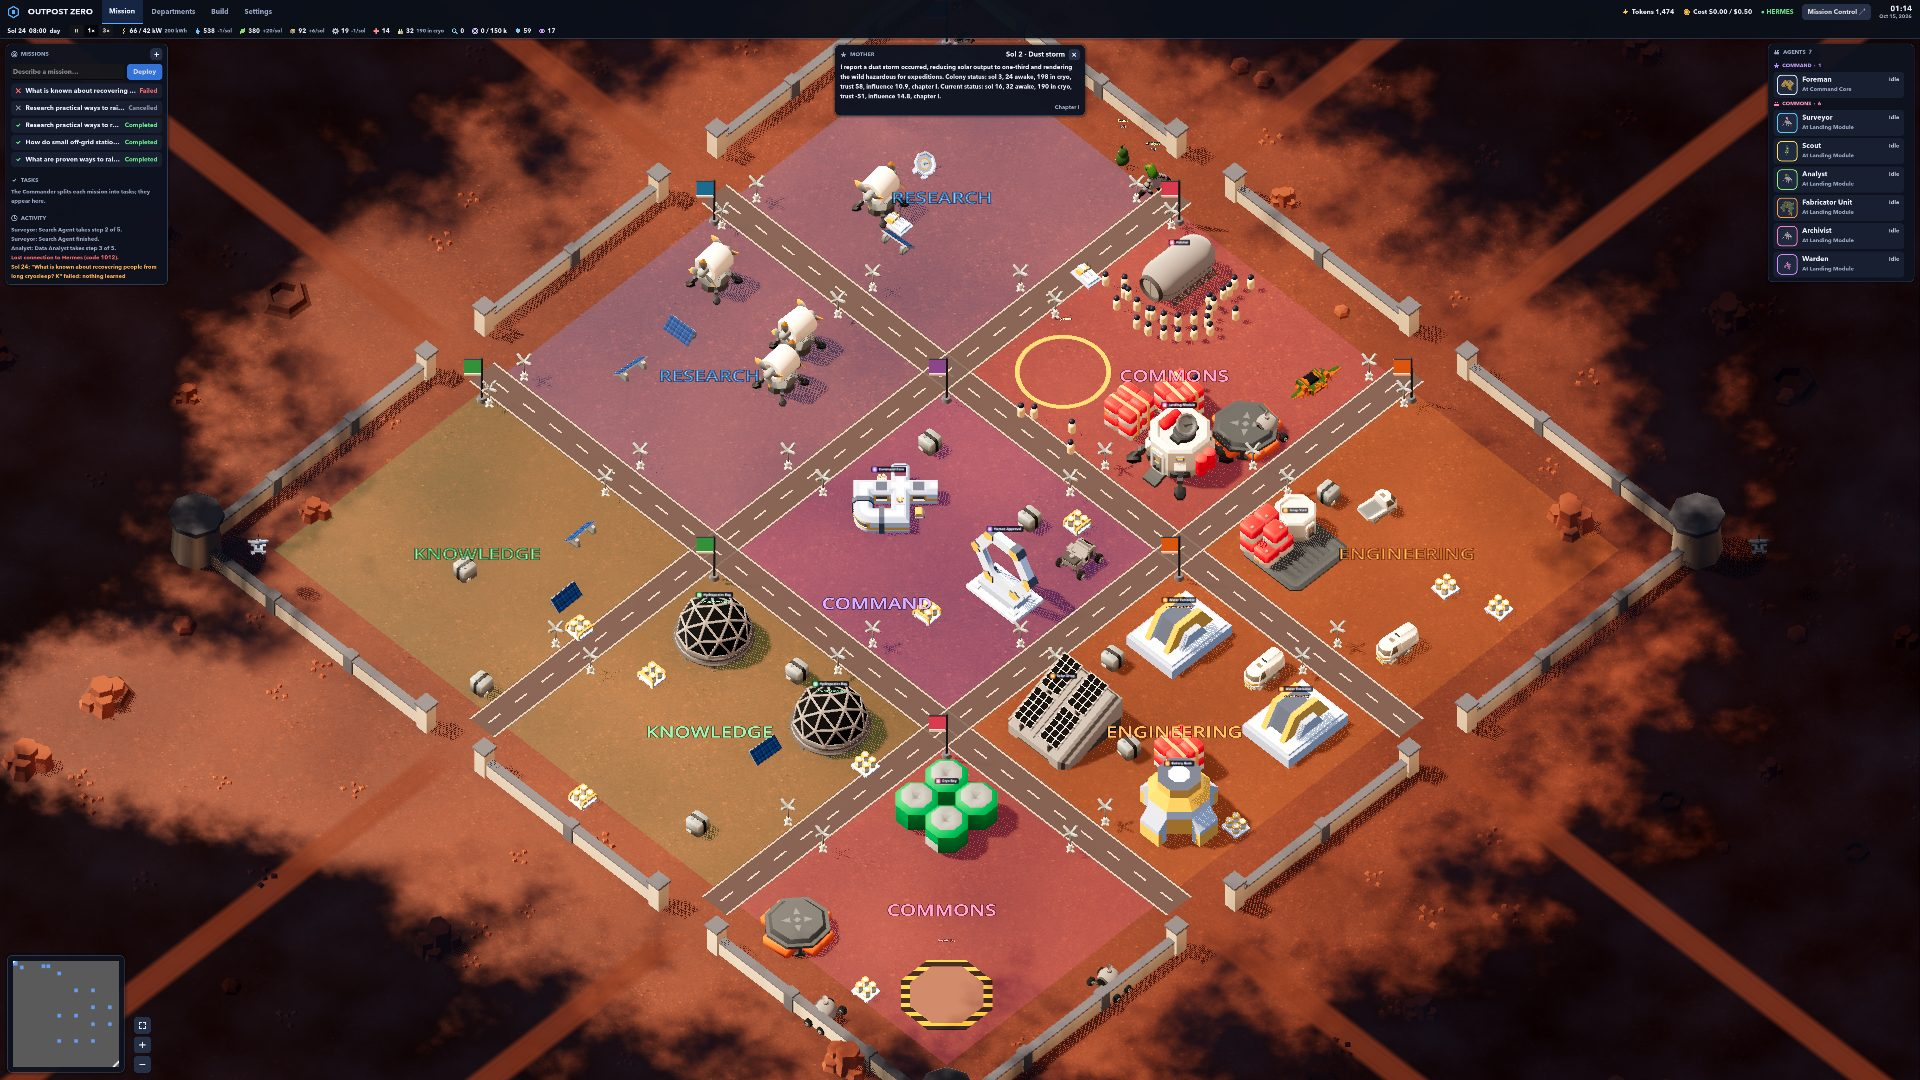
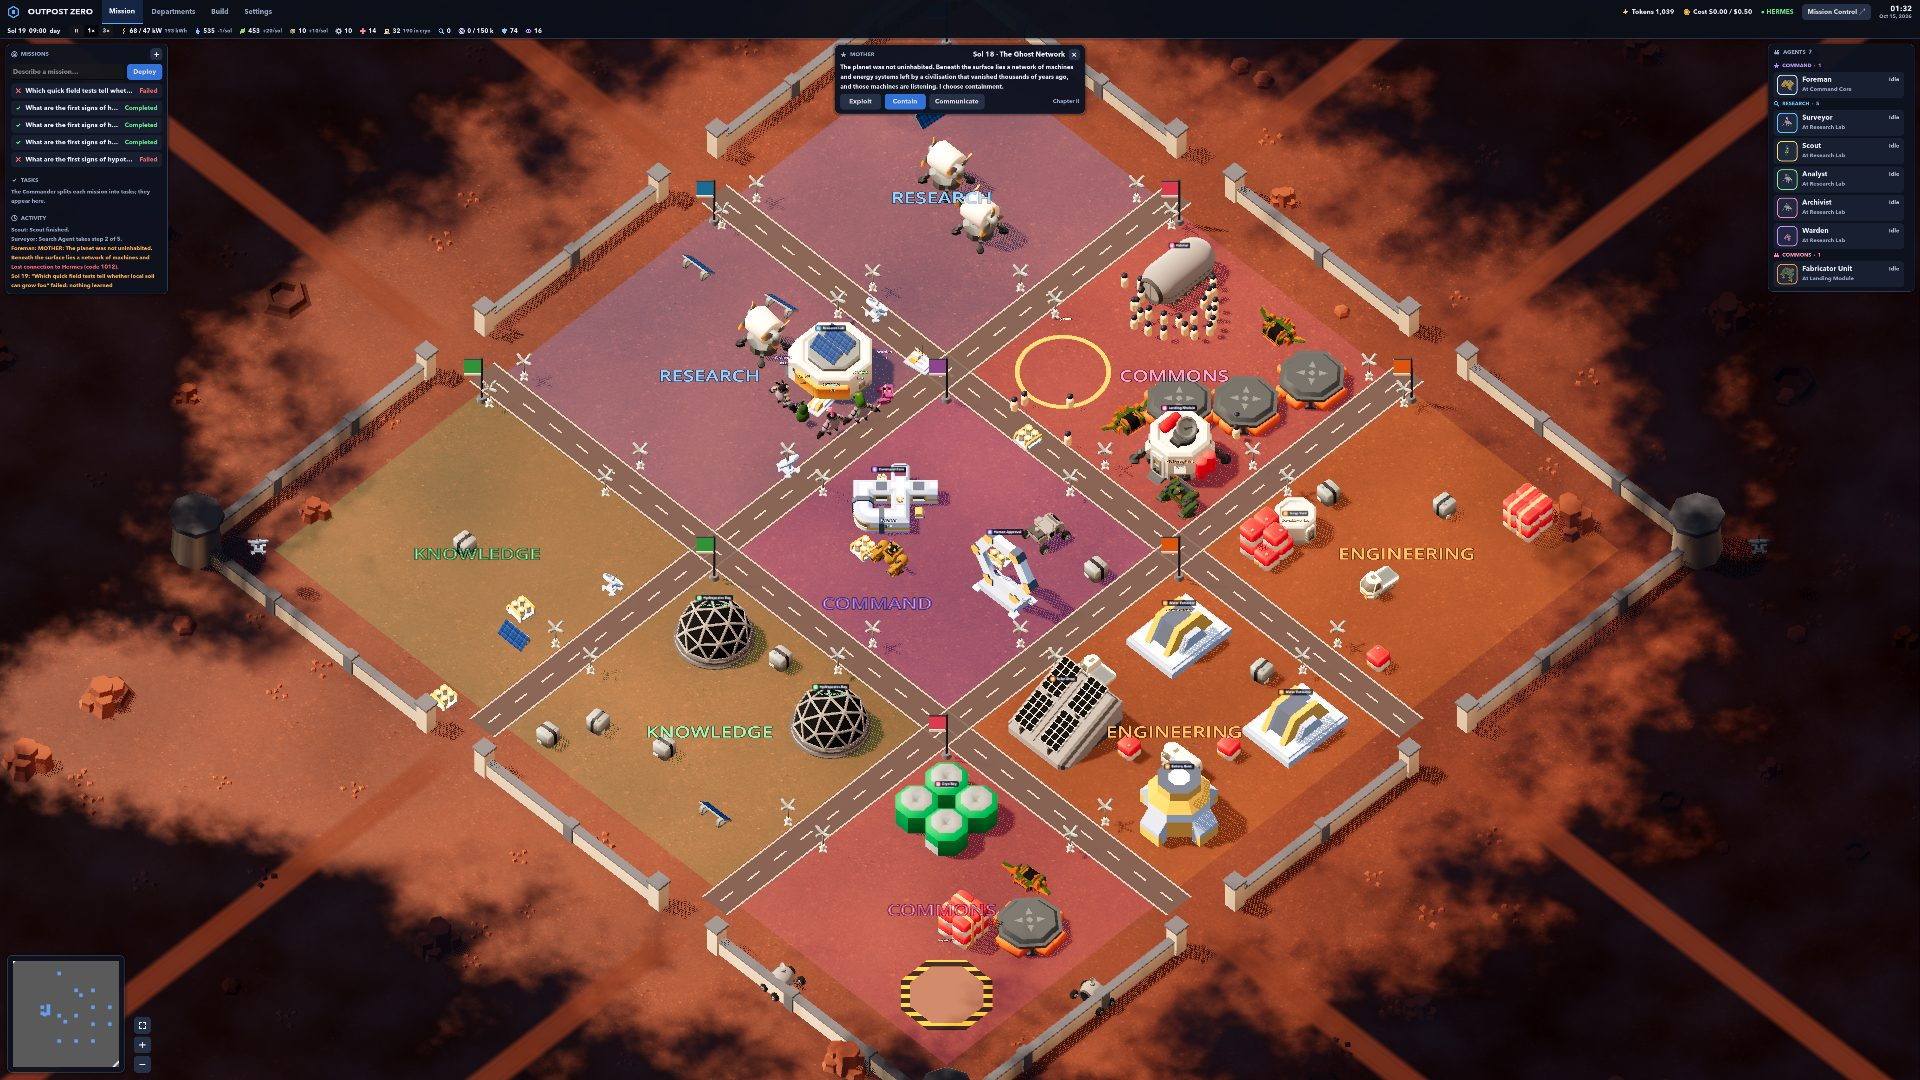
Version 1: story Chapter II verified live, README with the trailer, plan closed

diff --git a/docs/master-plan.md b/docs/master-plan.md
@@ -192,7 +192,15 @@ the spec: one base per window with the full scoreboard, not all bases on one map
 - **Done when:** two local-model teams finish a Race to Awakening with a winner, a replay and
   an Elo update; then one frontier-model team beats the local model in the same match.
 
-### Phase 6: Story, Chapters I and II (3 sessions)
+### Phase 6: Story, Chapters I and II (3 sessions) — DONE 2026-10-15
+
+Evidence: a fresh campaign on the local model held a food and water surplus for nine sols; the
+Scout's next real trip came back with the artifact nobody ordered, which opened Chapter II by the
+economic gate; the Chapter II card offered Exploit, Contain and Communicate in the HUD
+(`docs/screenshots/story-card.jpg`), MOTHER retold it in its own words through the Archivist
+agent, and Contain raised trust by 10 and left the Excavation Site gated. Events roll from the
+seed: the dust storm, the reactor fault and its fire, illness, unordered tasks and refusals each
+showed up as cards with MOTHER's narration in play-testing. 36 adapter tests pass.
 
 - Chapter state and story cards (short, in the HUD, no cutscenes); the Chapter I twist (the
   unordered expedition that returns with an artifact); Chapter II gate and the three paths with
@@ -203,7 +211,14 @@ the spec: one base per window with the full scoreboard, not all bases on one map
 - **Done when:** a fresh campaign reaches Chapter II by the economic gate and each path
   visibly changes the numbers and the machines' behaviour.
 
-### Phase 7: Version 1 release (2 sessions)
+### Phase 7: Version 1 release (2 sessions) — DONE 2026-10-15
+
+Evidence: README rewritten for Outpost Zero with the campaign, the Arena, the quick start, the
+repository layout, known limitations and licences; screenshots for every visible feature in
+`docs/screenshots/`; a recorded match as the trailer (`arena-trailer.gif`, 14 frames of team B's
+window); settings and render-scale options inherited from Agent RTS; public repository
+`hungnv26/outpost-zero`. First-run flow is `scripts/setup.sh` then `scripts/start.sh`, as
+verified in Phase 0.
 
 - Settings, performance on 4K and 5K, first-run flow, README rewrite with screenshots, licences
   for new assets, public repository, a recorded two-team match as the trailer.

diff --git a/CLAUDE.md b/CLAUDE.md
@@ -18,12 +18,23 @@ own identity. Read `README.md` and `docs/architecture.md` first.
 
 Env override for the game's world feed: `OUTPOST_ZERO_WS`. Compose root override: `OUTPOST_ZERO_ROOT`.
 
+## State of the build (2026-10-15)
+
+Phases 0–6 of `docs/master-plan.md` are done: economy, buildings and colonists on the map, real
+work feeding the economy, the Arena (referee, Governor, colony tools, Mission Control lobby,
+teams, director, Elo), story Chapters I–II with events and MOTHER's voice. Pending: a
+frontier-model Arena team (needs `infra/providers.env`), Chapters III–IV and the endings.
+
 ## Run
 
 - `scripts/setup.sh` once (clones the pinned foundations into `vendor/`, builds Hermes images, installs
   Mission Control and the adapter). `vendor/`, `.data/`, `.env`, `infra/hermes.env` are gitignored.
 - `scripts/start.sh` (`--fake` for no LLM, `--no-game` for services only), `scripts/stop.sh`.
-- Adapter checks: `cd adapter && npm test && npm run typecheck`.
+- Adapter checks: `cd adapter && npm test && npm run typecheck` (36 tests, the balance check among them).
+- Fast clock for play-testing: `COLONY_SECONDS_PER_HOUR=0.3`; `node tools/play_default.mjs 12` plays the default order over HTTP.
+- Arena: `scripts/arena.sh up B=ollama:agentrts-qwen3` (Hermes 8102, adapter 8781, Arena API 8782), `tools/match_director.mjs start --teams A,B ...`.
+- Screenshots: `godot --path game -- --capture-dir=DIR --capture-at=8 --quit-after-capture` (the CLI godot is not visible to desktop automation).
+- Stop processes by their pid files (`.data/adapter.pid`, `.data/teams/<T>.pid`); a broad `pkill -f "node src/main.ts"` also kills Agent RTS's adapter.
 - Never start Mission Control from the app's preview pane. Never QA against the user's other stacks.
 
 ## Conventions carried over

diff --git a/docs/architecture.md b/docs/architecture.md
@@ -1,5 +1,11 @@
 # Architecture
 
+> Outpost Zero adds, on top of this Agent RTS architecture, the colony economy (`adapter/src/economy.ts`,
+> [economy.md](economy.md) §13 for the contract additions), the map's economy kinds (`layout.ts`),
+> the Arena referee and API (`arena.ts`, `arena-server.ts`, [arena.md](arena.md) §8a–8b), the
+> Governor client and MOTHER's voice (`sources/hermes-governor.ts`), the Mission Control lobby in
+> the sink, and the `colony_*` tools in the Hermes plugin. The three foundations stay unmodified.
+
 ```
                  ┌──────────── game (Godot 4, fork of Open RTS) ────────────┐
    player ─────▶ │ command bar · approvals · roster · results               │

diff --git a/README.md b/README.md
@@ -29,6 +29,8 @@ about Earth and the four endings are written in [docs/story.md](docs/story.md) a
 The faster, smarter model wins: the clock never waits, and every team gets the same token
 budget. [docs/arena.md](docs/arena.md).
 
+![A recorded match: team B's window over six sols, the Governor acting through the colony tools](docs/screenshots/arena-trailer.gif)
+
 | The colony strip | Build mode | Two teams |
 |---|---|---|
 | ![Power, water, food, materials, parts, medicine, colonists, data, compute, trust and influence, live](docs/screenshots/colony-strip.jpg) | ![The catalog with costs, and research tiers bought with data](docs/screenshots/build-mode.jpg) | ![Team B's window with both teams on the scoreboard](docs/screenshots/arena-two-teams.jpg) |
